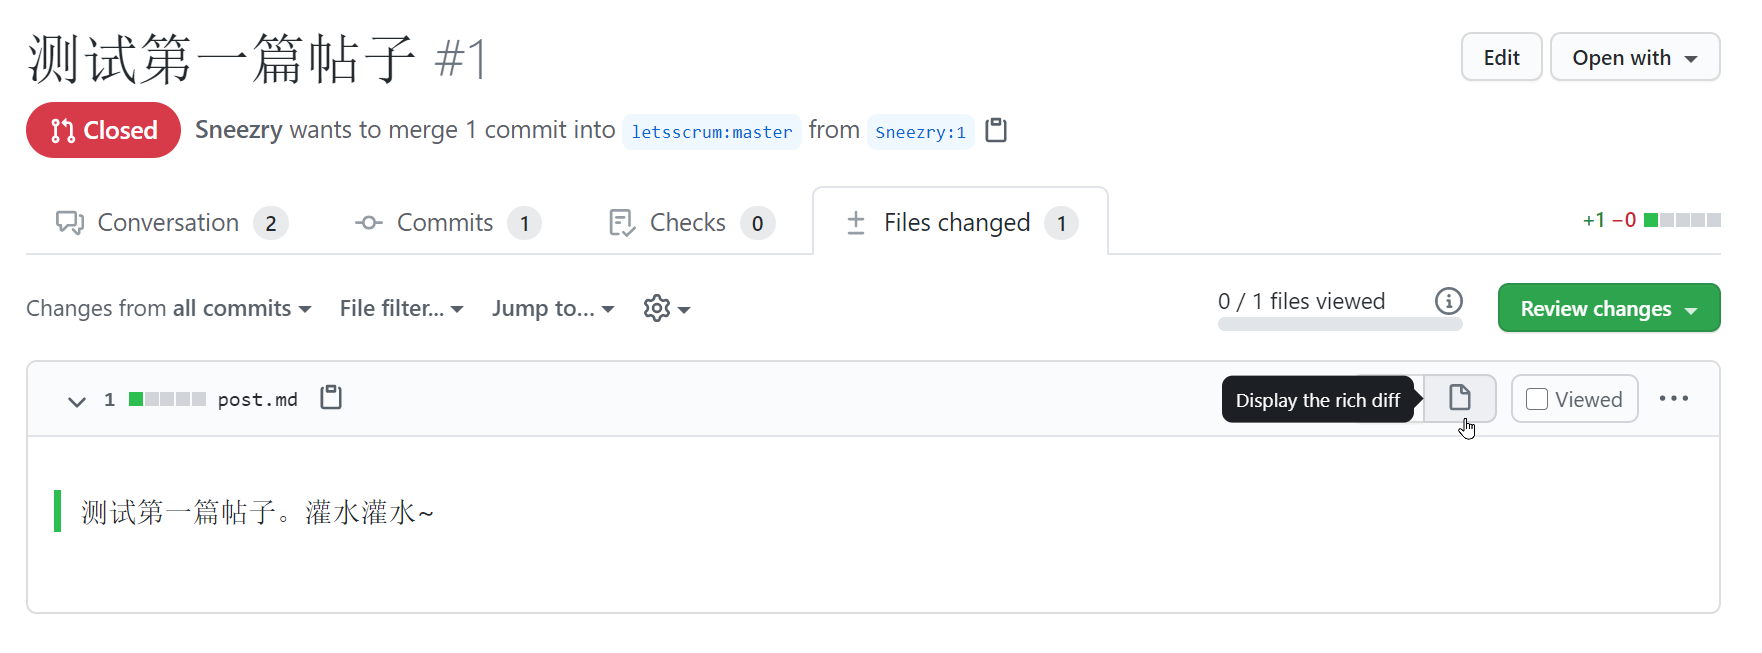
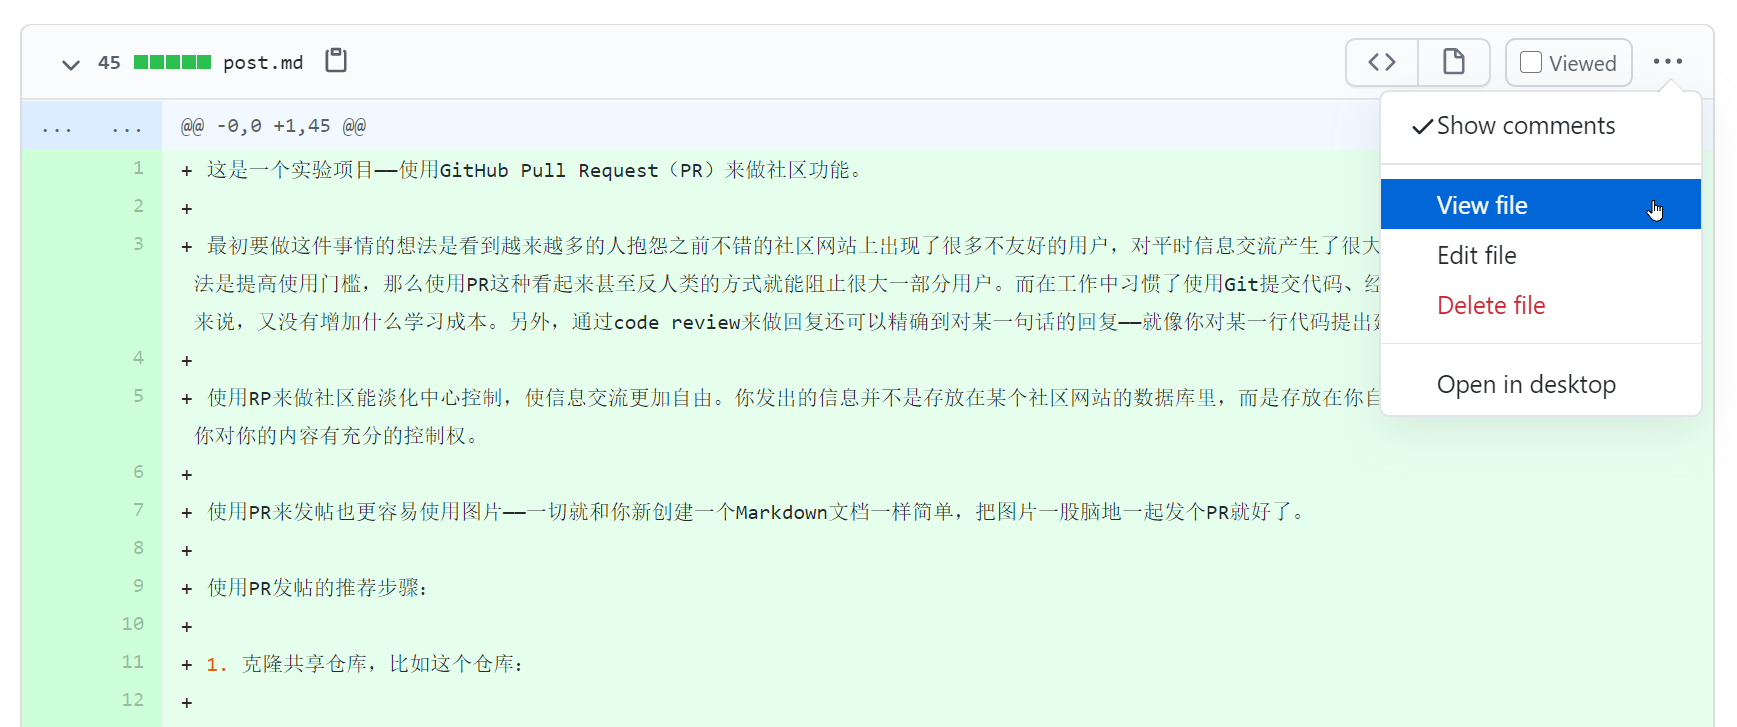
update

diff --git a/post.md b/post.md
@@ -36,7 +36,7 @@
 
 1. 浏览共享仓库的PR列表，比如这个仓库：https://github.com/letsscrum/scrum/pulls
 
-2. 切换到Files changed标签，选择Display the rich diff
+2. 切换到Files changed标签，选择View file
 
    ![](Snipaste_2020-07-08_00-33-07.png)
 
